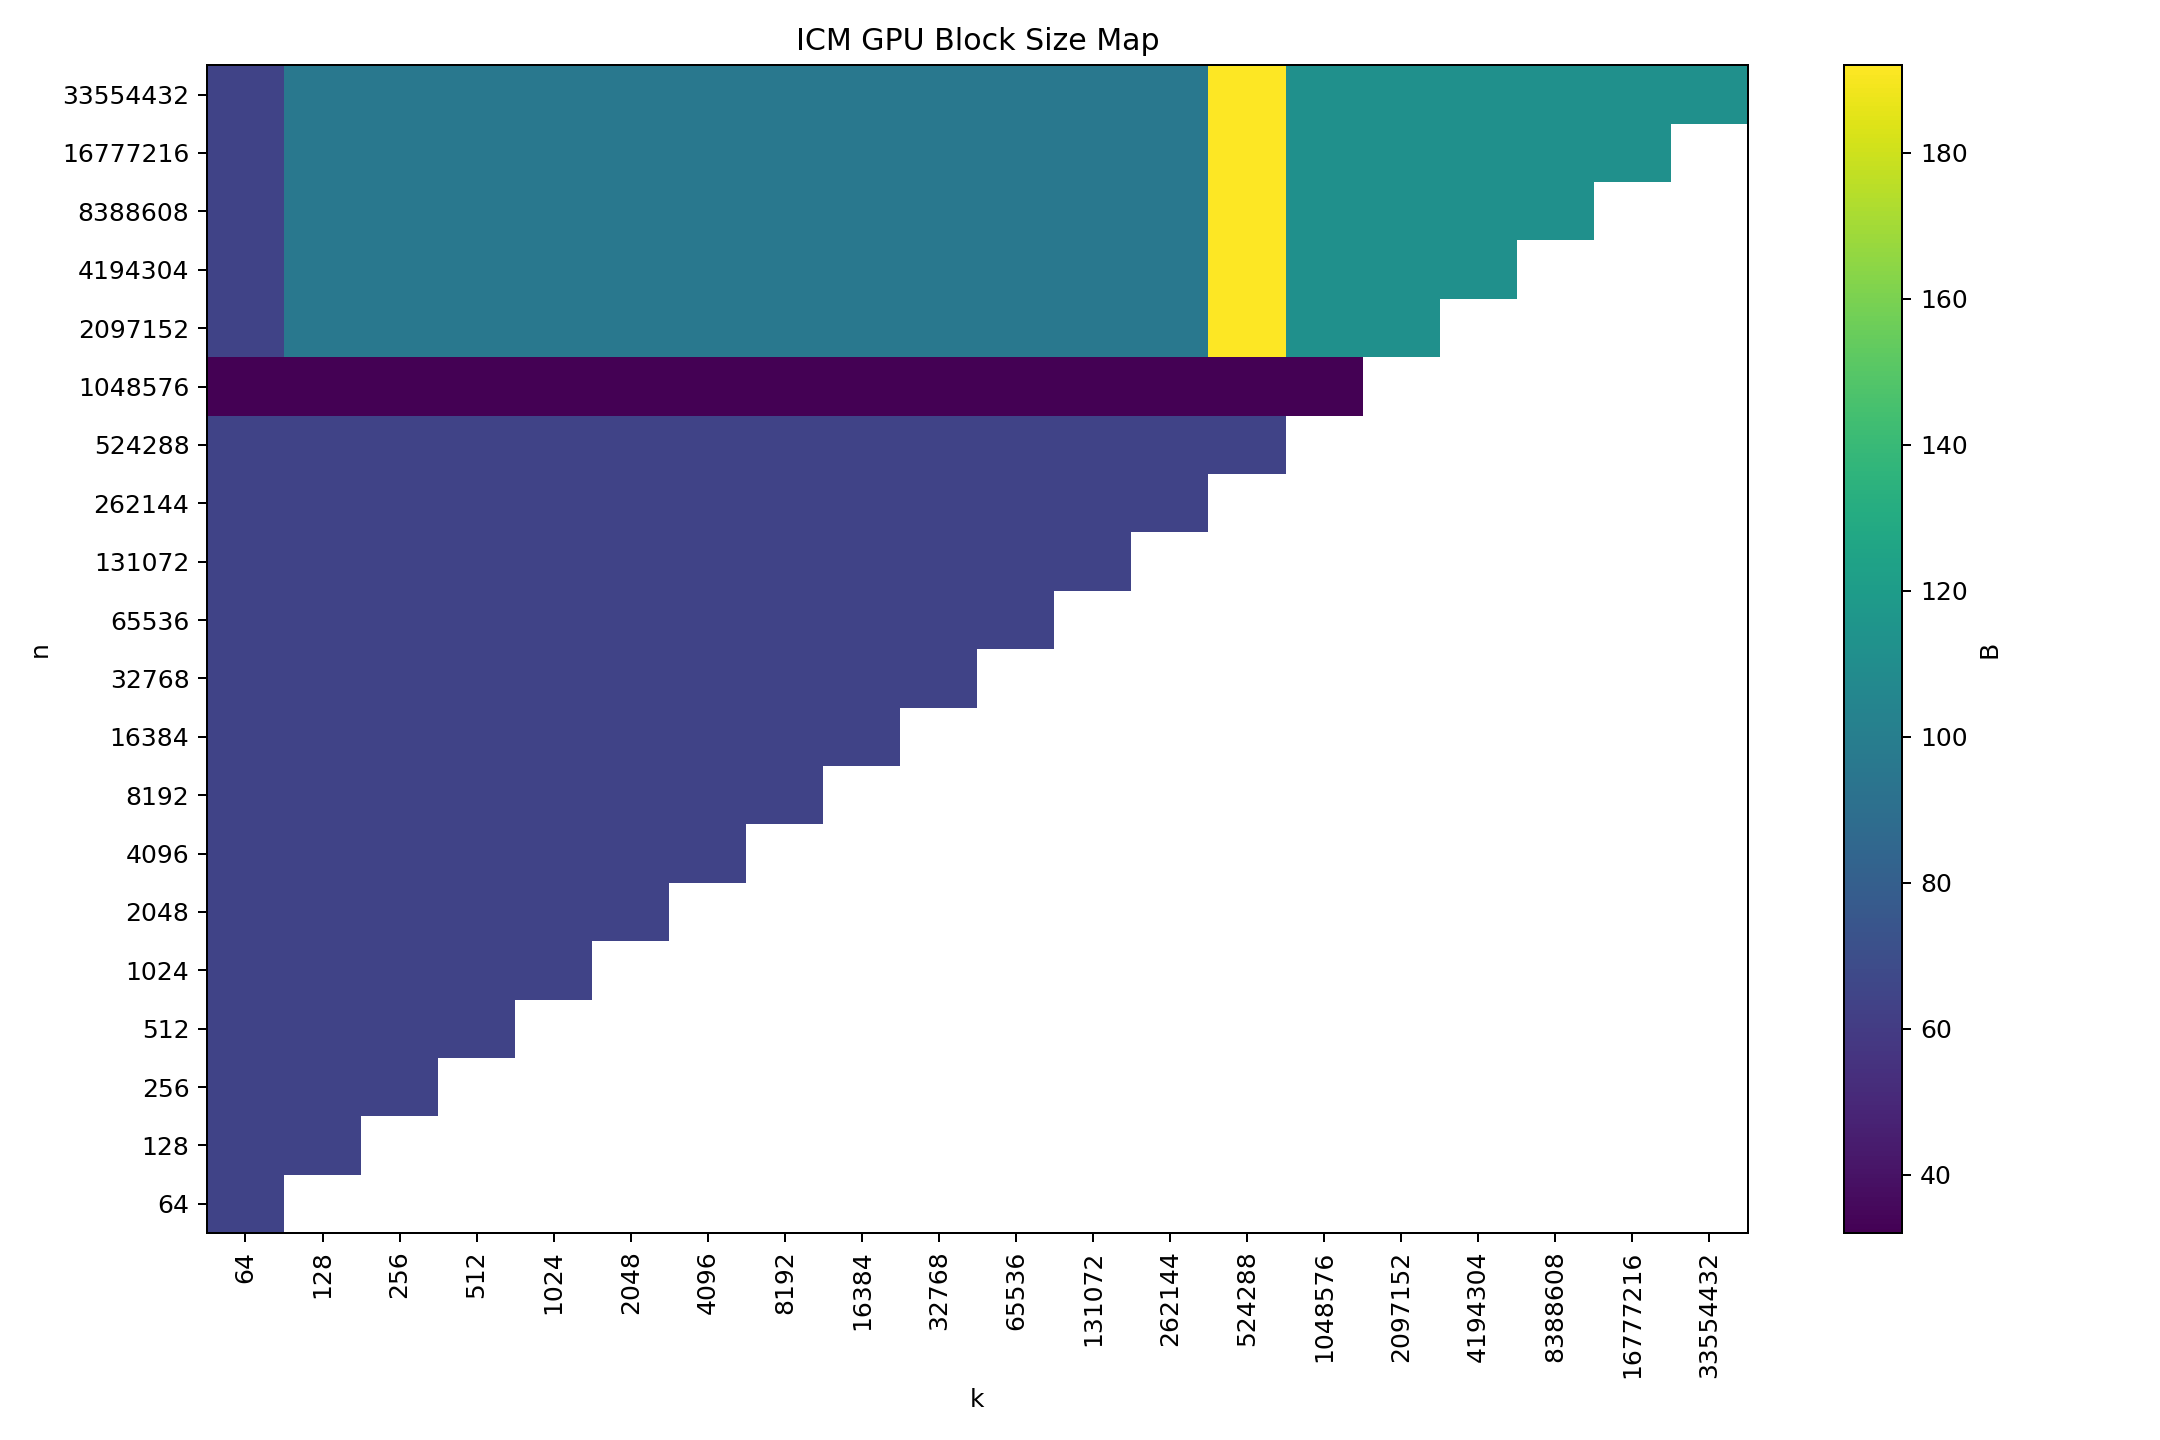
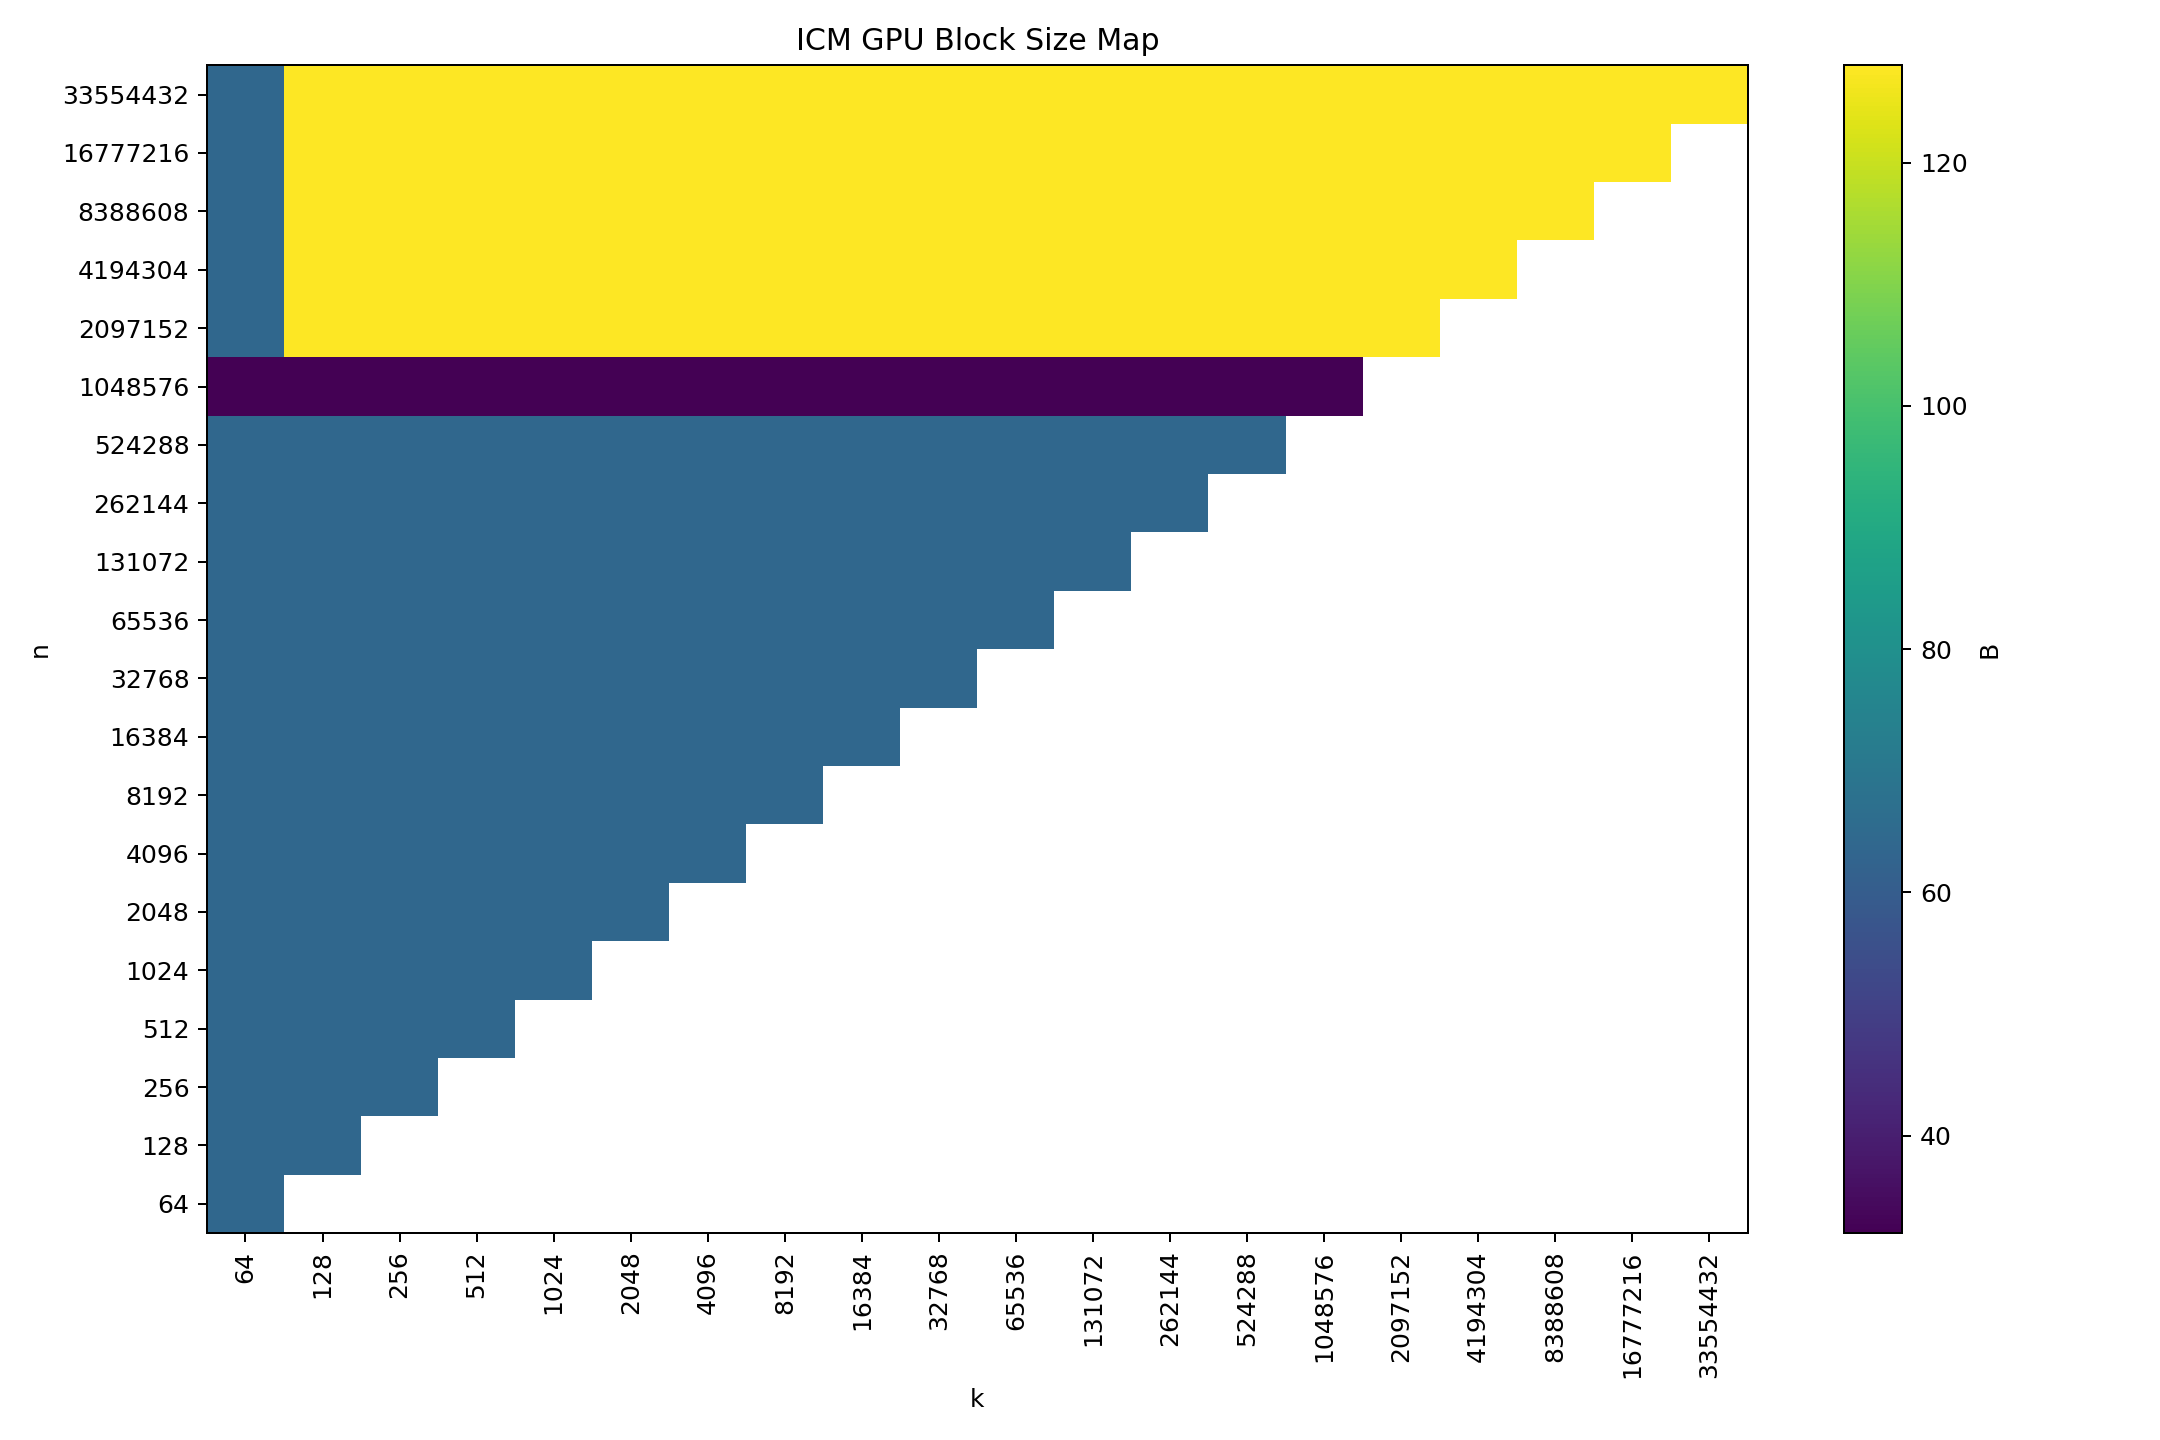
Regenerate B200 GPU heatmap + threshold search on top of ragged-tree and B-selection fixes
Full 211-point heatmap re-run after the ragged-tree register-pressure fix
(b53dd17) and B-selection table extension above n=1,572,864 (b06379e): zero
errors, cv <= 0.036 everywhere, one negligible 3% single-sample wobble (not
a structural non-monotonicity like the earlier FFT-calibration-gap issue).

Every cell with n >= 2,097,152 -- previously stuck on the stale B=112
anchor -- now dispatches B=128 and is 1.84x-2.34x faster, zero regressions.
Real binary-search 1-second threshold results replace the old frontier-probe
reinterpretation: k=n at n=1,490,944, k=100 at n=7,975,936.

diff --git a/RESULTS.md b/RESULTS.md
@@ -564,60 +564,52 @@ coverage to break this collinearity is flagged as real, open follow-up work.
 
 | n | k=64 | k=1024 | k=n/2 | k=n |
 |---|------|--------|-------|-----|
-| 4,096 | 0.37 | 0.77 | 0.87 | 0.91 |
-| 16,384 | 1.19 | 2.83 | 4.04 | 4.34 |
-| 65,536 | 4.39 | 11.02 | 19.87 | 20.65 |
-| 262,144 | 17.15 | 43.54 | 97.75 | 101.36 |
-| 1,048,576 | 77.48 | 186.32 | 505.52 | 509.91 |
-| 4,194,304 | 273.25 | 1106.64 | 4345.23 | 4777.09 |
+| 4,096 | 0.35 | 0.74 | 0.82 | 0.84 |
+| 16,384 | 1.16 | 2.79 | 3.85 | 4.10 |
+| 65,536 | 4.35 | 10.94 | 19.36 | 20.22 |
+| 262,144 | 17.09 | 43.37 | 96.31 | 100.49 |
+| 1,048,576 | 77.45 | 187.72 | 508.24 | 513.41 |
+| 4,194,304 | 272.98 | 771.48 | 2,383.66 | 2,340.89 |
+| 16,777,216 | 1,280.52 | 3,127.15 | 10,716.87 | 10,825.24 |
+| 33,554,432 | 2,639.85 | 6,141.28 | 22,584.75 | 23,116.73 |
 
-Sampled from the full 211-point calibration heatmap
-(`results/gpu_heatmap_b200.csv`), regenerated 2026-07-26 with the async
-memory-pool fix (commit `386c856`) applied -- all 211 cells pass with
-zero errors, including the 21 that failed in the previous (2026-07-25)
-run. See HANDOFF.md for the full history: original OOM found and fixed
-(G/G2/G3/G4, commits `8ce8a07`..`abd9fa4`), a second long-sweep-only OOM
-found in the following full-sweep verification, root-caused via static
-analysis to CUDA default-allocator fragmentation (every allocation
-confirmed correctly paired with a free, no leak), and fixed by routing
-the arena and cuFFT workspace allocations through a CUDA stream-ordered
-memory pool instead of raw `cudaMalloc`/`cudaFree`.
+Full 211-point calibration heatmap (`results/gpu_heatmap_b200_20260728.csv`),
+regenerated 2026-07-27/28 on top of the ragged-tree fix (`b53dd17`) and the
+extended B-selection table above n=1,572,864 (`b06379e`) -- all 210 cells
+pass with zero errors, cv ≤ 0.036 everywhere (most 0.000), and exactly one
+negligible non-monotonicity (n=4,194,304, k=2048→4096: 967.9→939.0ms, a
+~3% single-sample wobble with identical B=128 and identical tier
+composition on both sides, not a structural issue like the earlier
+FFT-calibration-gap non-monotonicity).
 
-### Frontier probes (dedicated max-n / max-field search)
+**This session's two GPU fixes combined are a large, broad win, not just a
+correctness fix.** Diffing this heatmap cell-by-cell against the previous
+(2026-07-26, pre-fix) run at the same 210 `(n,k)` points: every cell with
+n ≥ 2,097,152 -- previously dispatched to the stale `B=112` anchor beyond
+the old B-selection table's range -- now dispatches `B=128` and is
+**1.84x-2.34x faster**, e.g. the largest cell (n=k=33,554,432) drops from
+45,046ms to 23,117ms. Zero cells regressed (none slower by more than 1%);
+smaller cells already inside the pre-existing calibration range (n ≤
+1,048,576) are unchanged (within ~1% noise), as expected. Summed over all
+210 common cells, total grid time drops from 726.8s to 451.7s (1.61x
+aggregate). The two fixes landed together (`b53dd17` then `b06379e`), so
+this comparison cannot cleanly separate the register-pressure fix's
+contribution from the B-selection table's -- both changed between the old
+and new run -- but the combined effect at large n is unambiguous and
+substantial.
 
-These are not part of the systematic grid above -- they're specific `n`
-values used to characterize large-n behavior.
+### 1-second threshold: real binary search (median of 5 reps/candidate)
 
-| n | k | Time (ms) |
-|---|---|-----------|
-| 1,441,792 | n | 1,125 |
-| 1,572,864 | n | 1,124 |
-| 6,291,456 | 100 | 950.5 |
-| 8,388,608 | 100 | 1,235 |
-| 16,777,216 | 10 | 1,365 |
+| Query shape | Largest n ≤ 1000ms | Smallest n > 1000ms | Bracket width |
+|---|---|---|---|
+| k = n | 1,490,944 (918.8ms) | 1,506,304 (1,124.2ms) | 15,360 (1.0% of lo) |
+| k = 100 | 7,975,936 (998.9ms) | 7,991,296 (1,001.1ms) | 15,360 (0.2% of lo) |
 
-Regenerated 2026-07-25 via a targeted auto-dispatch probe
-(`scripts/frontier_probe.cu`), not the original `tools/push_limit_gpu.cu`
-exhaustive B/M/T hyperparameter sweep -- that tool's full 20-value n-grid
-search was measured taking over 3.5 minutes on just its first (smallest) n
-value with no early-exit for the feasible region, making a full run
-impractical within the session's time/budget. The numbers above use the
-same real full computation and the empirically-validated auto B-selection
-(`gbselect_*` table) that production dispatch actually uses, just without
-hunting for the absolute-optimal B/M/T at each point the way the original
-tool does. If exact reproduction of the original tool's methodology
-matters for the paper, `push_limit_gpu` should be re-run to completion in
-a future session with a larger time budget.
-
-### 1-second threshold: needs re-measurement
-
-The previous n≈1,441,792 (k=n) / n≈6,291,456 (k=100) threshold estimates
-predate this session's dispatch/workspace fixes and the frontier-probe
-methodology change above; the new numbers no longer land cleanly on those
-boundaries (e.g. n=6,291,456 now measures 950ms, not 626ms). A precise
-re-measurement needs a real binary search (matching how the original
-thresholds were found), not a re-interpretation of the existing 5 sample
-points -- flagged as a follow-up, not resolved here.
+Full search trace in `results/gpu_threshold_search_20260728.txt`
+(`scripts/threshold_search_gpu.cu`, plan-based API). Supersedes the old
+2026-07-25 frontier-probe-derived estimates (n≈1,441,792 / n≈6,291,456),
+which predated the ragged-tree fix and were reinterpretations of 5 fixed
+sample points, not an actual search.
 
 ### Dispatch: three-tier kernel planner (schoolbook / cuFFTDx fused / batched cuFFT), cost-based per tree level
 
